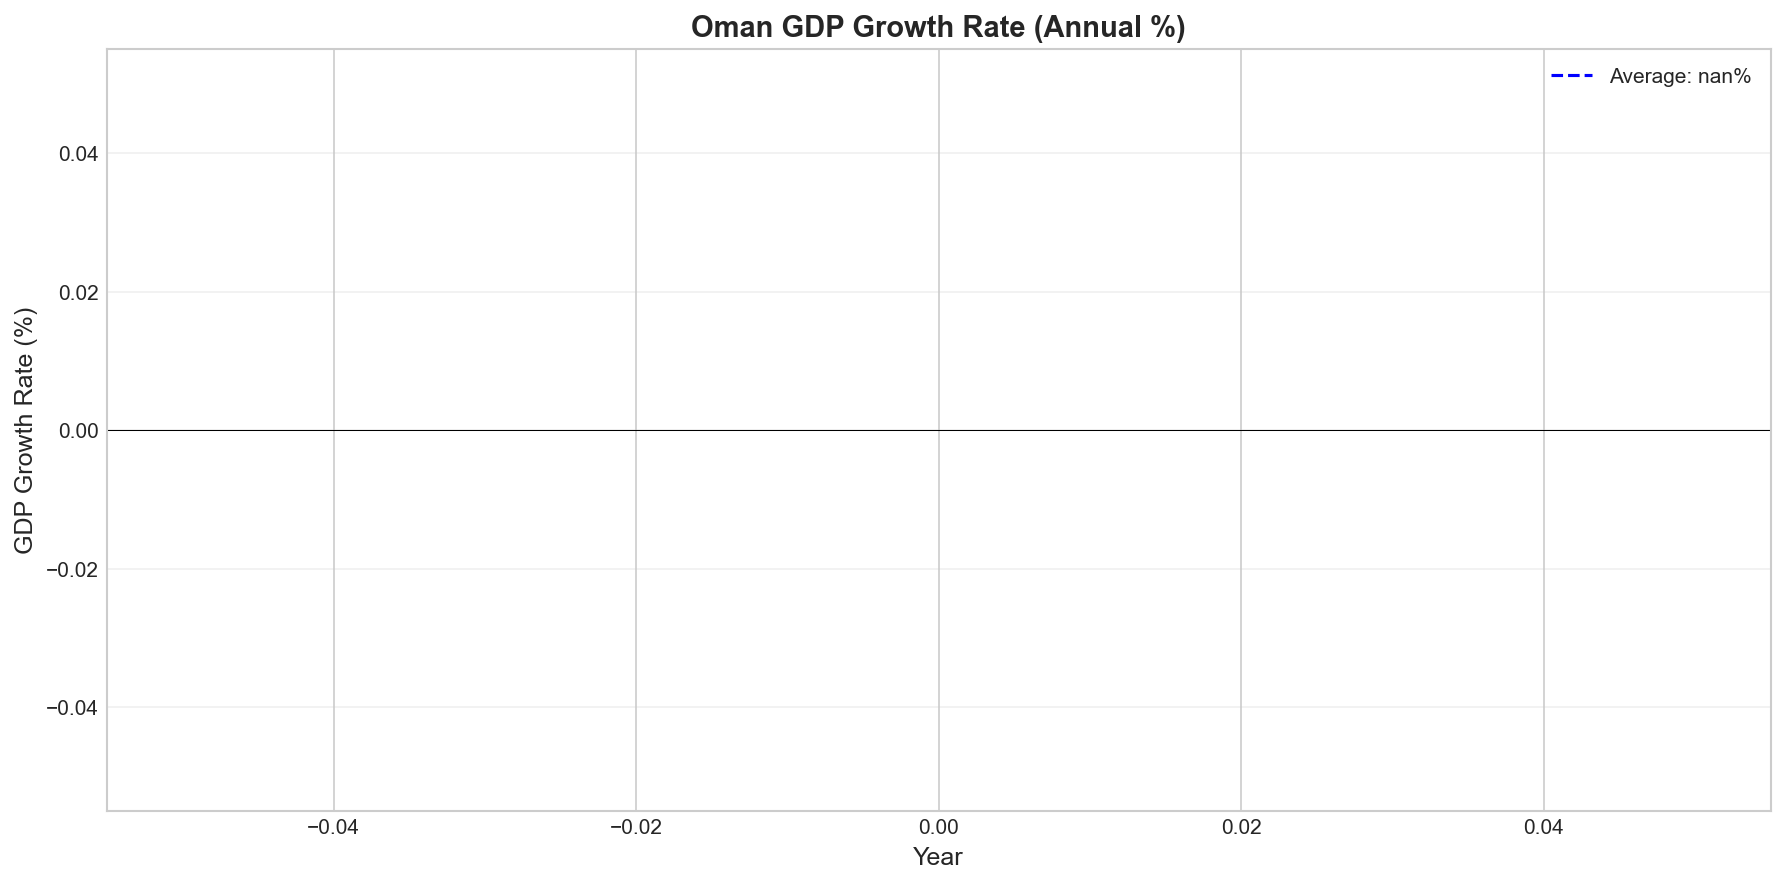
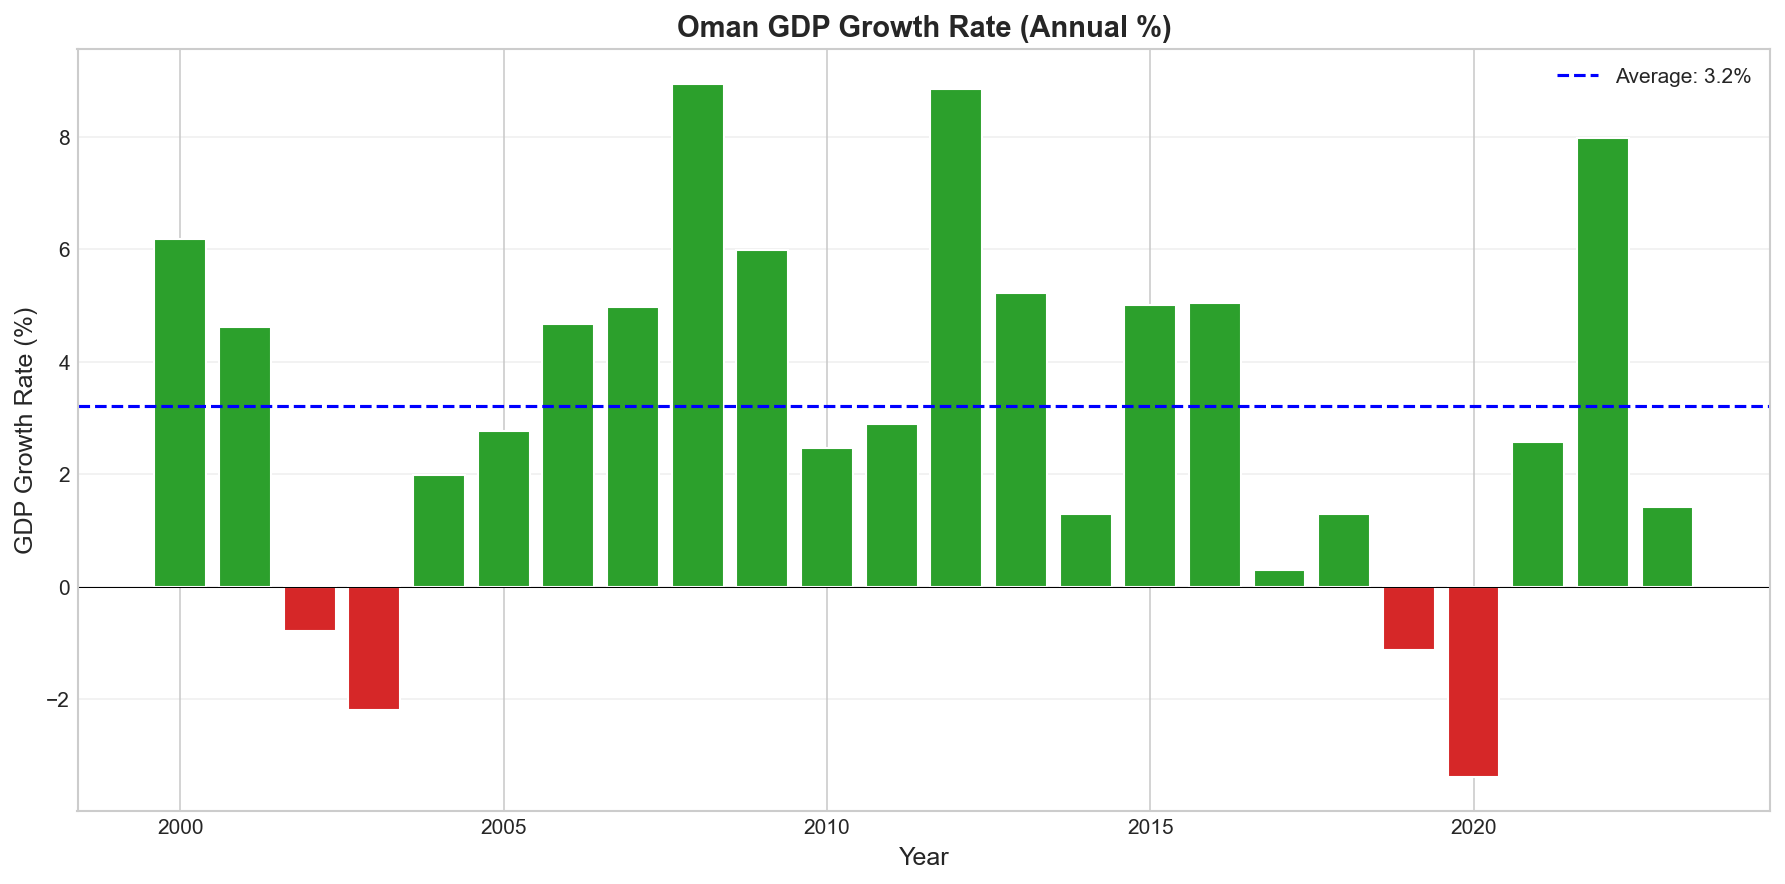
Fix country code mismatch and add new charts
- Fix country code from 'OMN' to 'OM' (2-letter ISO code)
- Oman GDP trend and growth charts now display correctly
- Add 3 new charts: GDP per capita, oil dependency, trade trends
- Total charts: 10

diff --git a/run_analysis.py b/run_analysis.py
@@ -87,7 +87,7 @@ def run_gdp_analysis(df):
 
     # Oman GDP
     oman_gdp = df[(df['indicator_code'] == gdp_ind) &
-                  (df['country_code'] == 'OMN')].sort_values('year')
+                  (df['country_code'] == 'OM')].sort_values('year')
 
     if oman_gdp.empty:
         print("No GDP data available")
@@ -119,7 +119,7 @@ def run_gdp_analysis(df):
 
     # GDP Growth
     oman_growth = df[(df['indicator_code'] == growth_ind) &
-                     (df['country_code'] == 'OMN')].sort_values('year')
+                     (df['country_code'] == 'OM')].sort_values('year')
     oman_growth = oman_growth.dropna(subset=['value'])
 
     if not oman_growth.empty:
@@ -216,9 +216,9 @@ def run_trade_analysis(df):
 
     # Exports vs Imports
     oman_exports = df[(df['indicator_code'] == export_ind) &
-                      (df['country_code'] == 'OMN')].sort_values('year')
+                      (df['country_code'] == 'OM')].sort_values('year')
     oman_imports = df[(df['indicator_code'] == import_ind) &
-                      (df['country_code'] == 'OMN')].sort_values('year')
+                      (df['country_code'] == 'OM')].sort_values('year')
 
     oman_exports = oman_exports.dropna(subset=['value'])
     oman_imports = oman_imports.dropna(subset=['value'])
@@ -243,7 +243,7 @@ def run_trade_analysis(df):
 
     # Oil dependency
     oman_oil = df[(df['indicator_code'] == oil_ind) &
-                  (df['country_code'] == 'OMN')].sort_values('year')
+                  (df['country_code'] == 'OM')].sort_values('year')
     oman_oil = oman_oil.dropna(subset=['value'])
 
     if not oman_oil.empty:
@@ -349,10 +349,10 @@ def print_summary(df):
     gdp_ind = 'NY.GDP.MKTP.CD'
     growth_ind = 'NY.GDP.MKTP.KD.ZG'
 
-    oman_gdp = df[(df['indicator_code'] == gdp_ind) & (df['country_code'] == 'OMN')]
+    oman_gdp = df[(df['indicator_code'] == gdp_ind) & (df['country_code'] == 'OM')]
     oman_gdp = oman_gdp.dropna(subset=['value'])
 
-    oman_growth = df[(df['indicator_code'] == growth_ind) & (df['country_code'] == 'OMN')]
+    oman_growth = df[(df['indicator_code'] == growth_ind) & (df['country_code'] == 'OM')]
     oman_growth = oman_growth.dropna(subset=['value'])
 
     print("\nOman Economic Highlights:")
